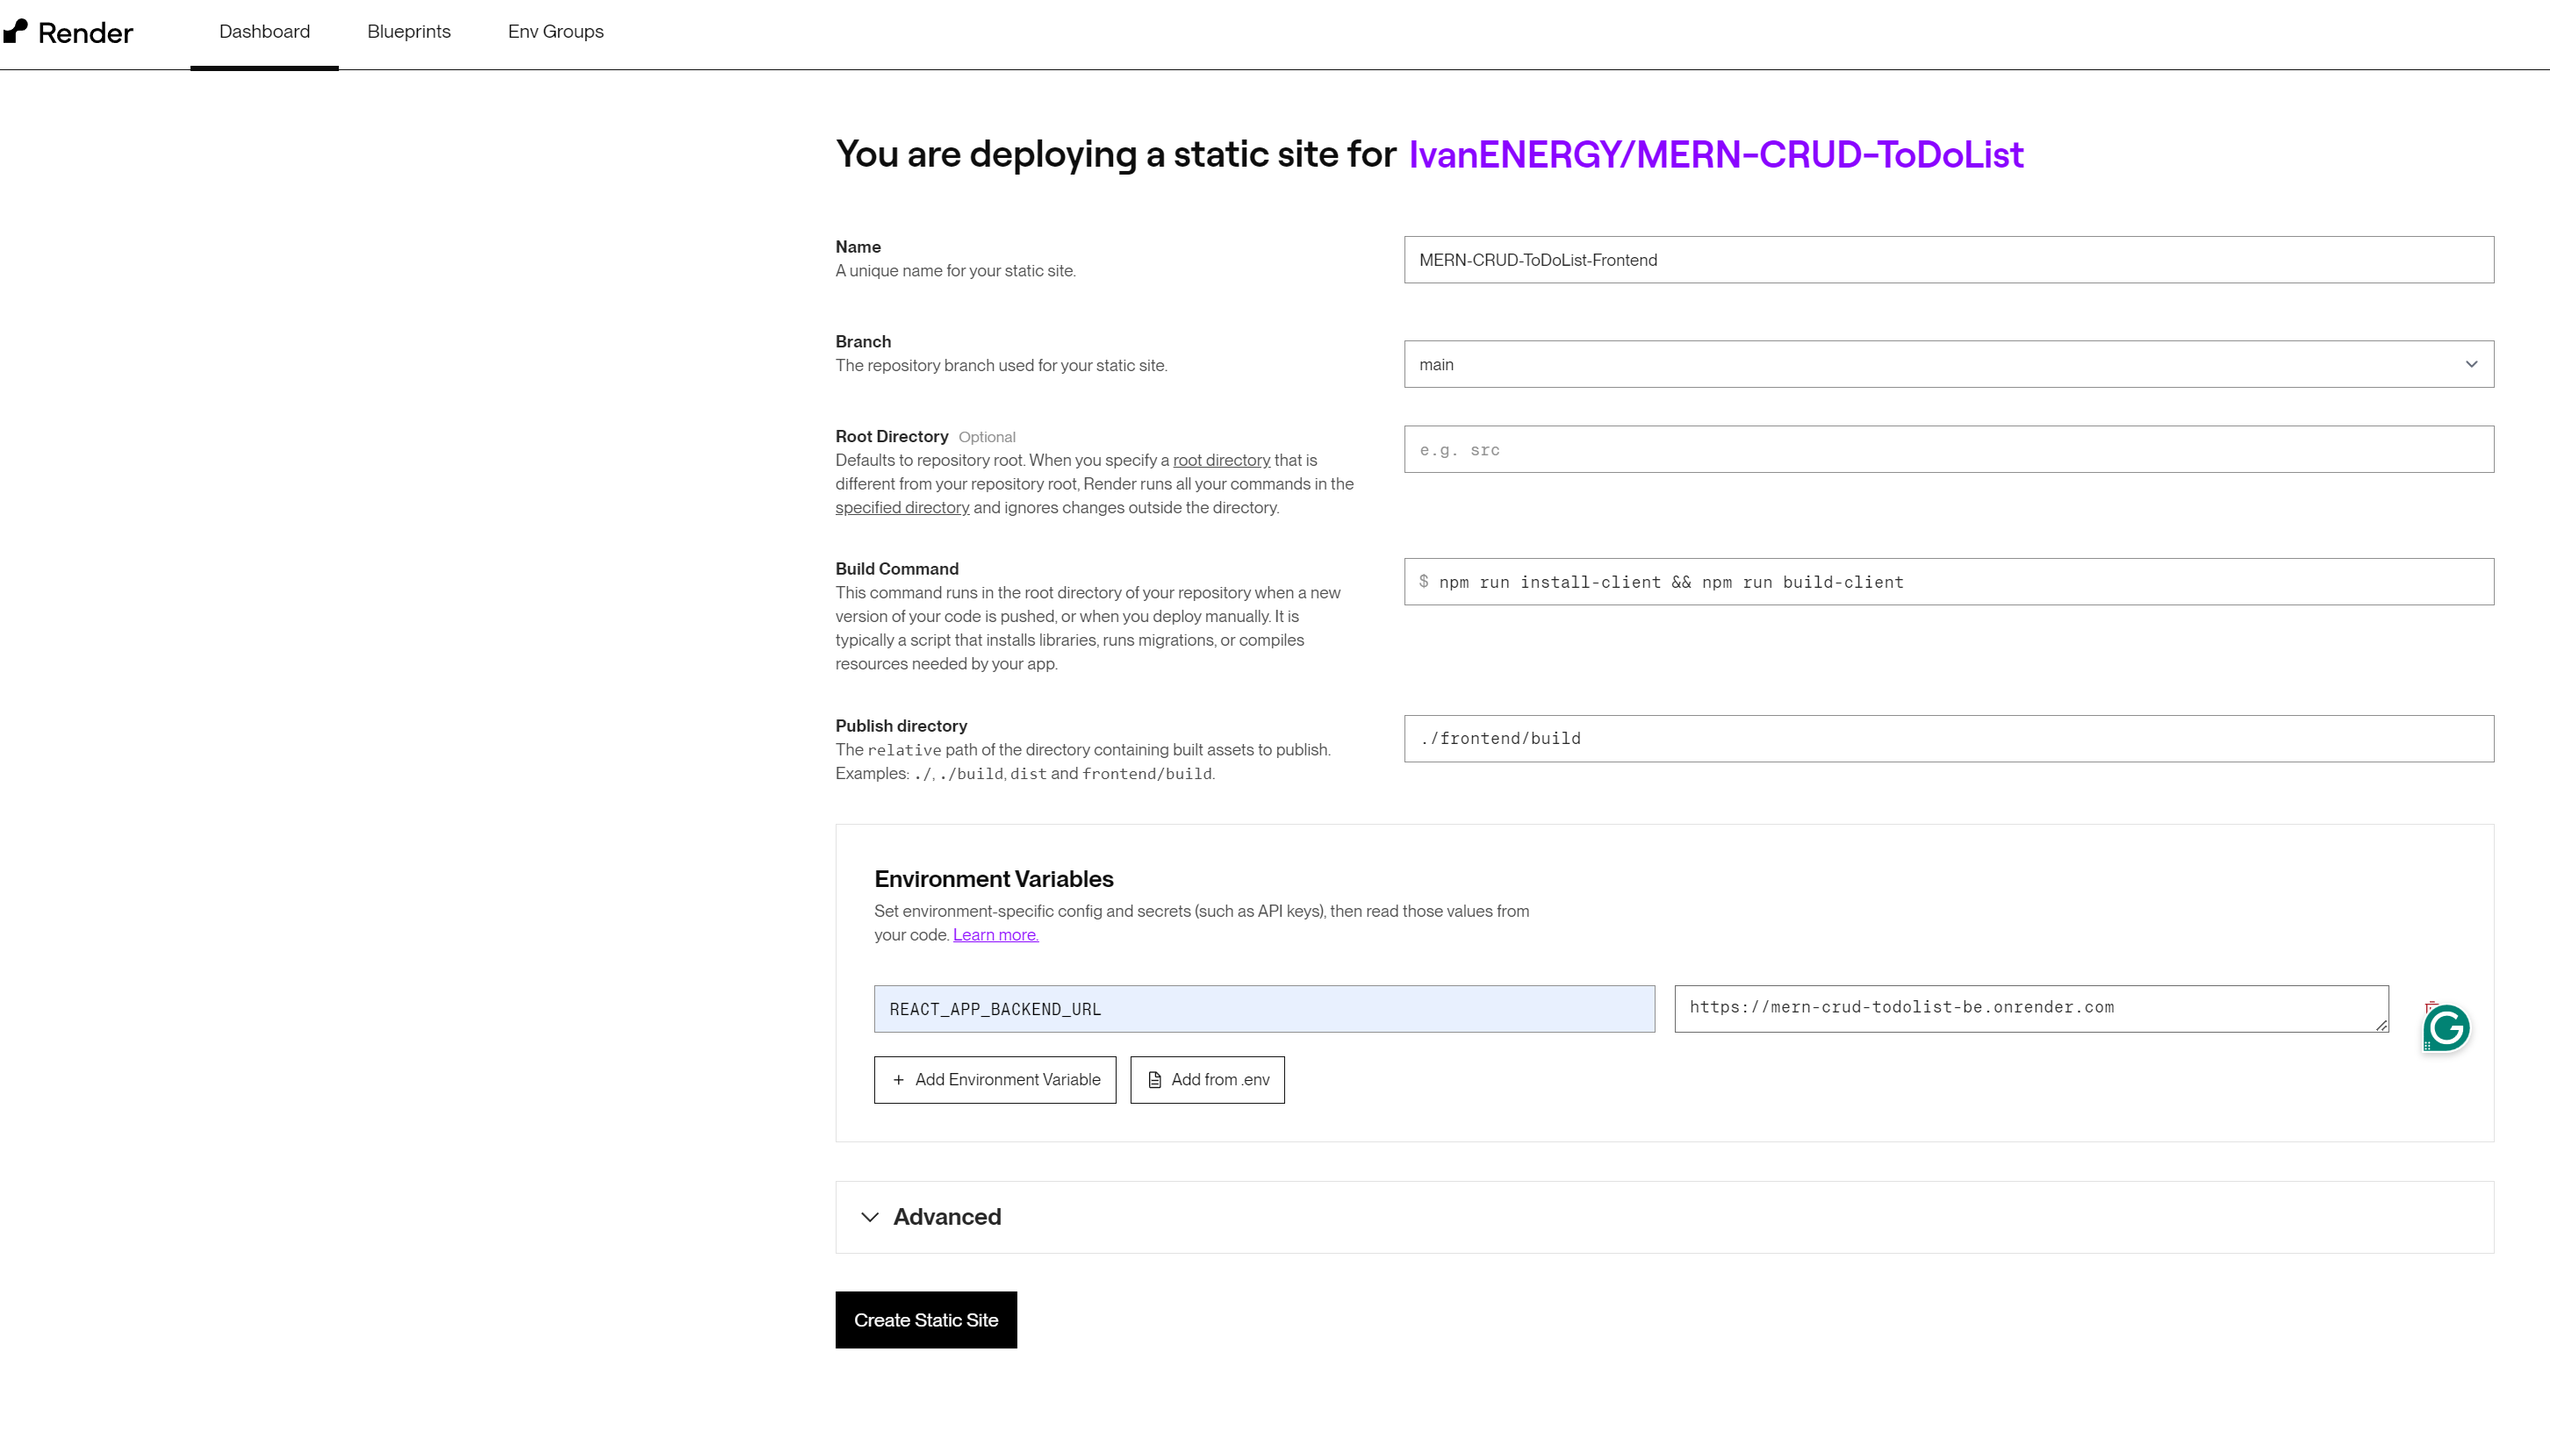
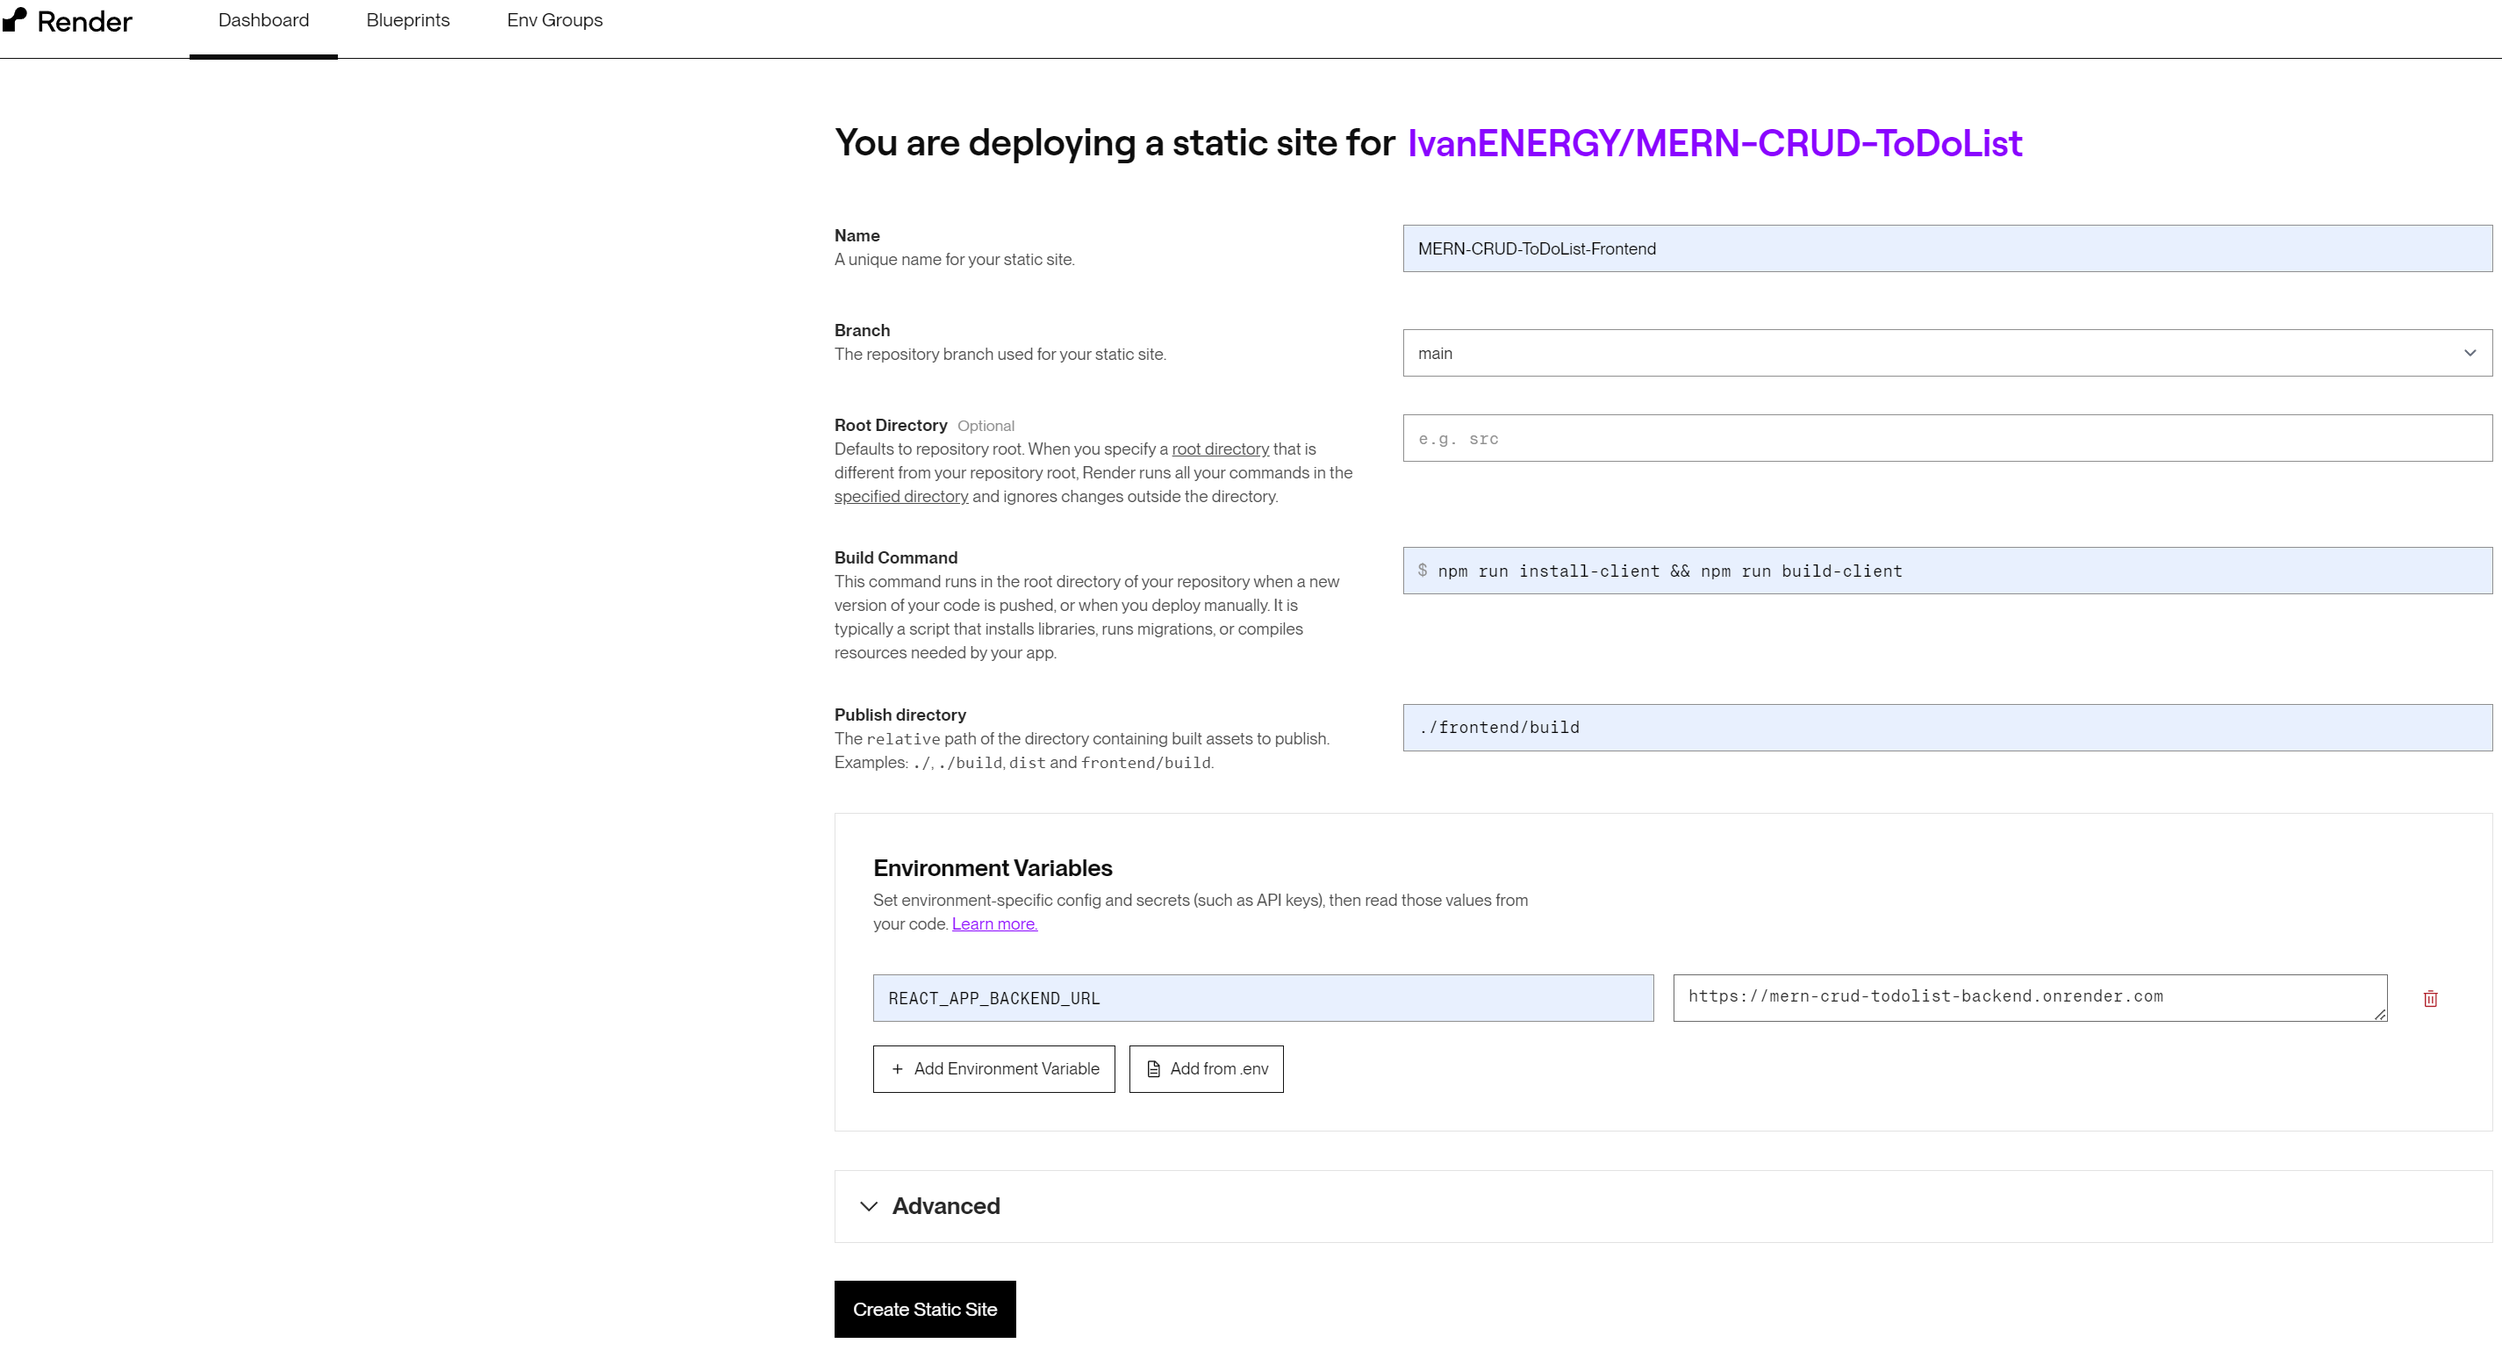
finish

diff --git a/readme.md b/readme.md
@@ -71,5 +71,6 @@ axios.get(`${process.env.REACT_APP_BACKEND_URL}/api/tasks`)
 </pre>
 <p>Create web services in render</p>
 ![renderback.png](renderback.png)
+<p>Copy the productionbackendurl  </p>
 <p>Create static site in render</p>
 ![renderfront.png](renderfront.png)
